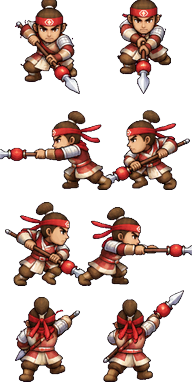
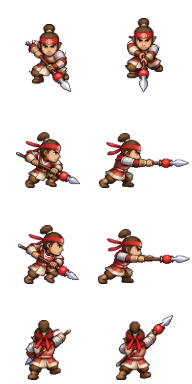
Swordsmen and spearmen attack with their heads and weapons intact
Both troop attack sheets were cropped so each figure filled its 96px cell,
cutting off heads, raised blades and spear tips. Re-sliced from the
magenta raws by connected components at one scale per sheet. Allies now
size attack sheets by the sheet median only, so the crouched slash frame
no longer jumps 20% larger than the windup.

diff --git a/src/entities/Ally.ts b/src/entities/Ally.ts
@@ -81,7 +81,7 @@ export class Ally {
     const hop=this.moving&&now>=this.attackUntil?Math.abs(Math.sin(Math.PI*this.walked/14))*2:0;
     // 出手动作：沿朝向前冲后收回（远程为后坐），并带轻微伸缩；保持同一角色素材，不冒充独立攻击帧。
     const strike=now<this.attackUntil?Math.sin(progress*Math.PI):0,lunge=(LUNGE[this.kind]??0)*strike,horizontal=this.facingX!==0;
-    const tex=visualTextureKey(this.scene,texture),corr=texture===sheet?1:figureCorrection(this.scene,visualTextureKey(this.scene,sheet),tex,frame);
+    const tex=visualTextureKey(this.scene,texture),corr=texture===sheet?1:figureCorrection(this.scene,visualTextureKey(this.scene,sheet),tex,frame,!(attack&&!action));
     v.sprite.setVisible(this.active).setTexture(tex, frame).setScale(corr*scale*(1+(horizontal?.07:-.03)*Math.abs(strike)*(lunge?1:0)),corr*scale*(1+(horizontal?-.03:.06)*Math.abs(strike)*(lunge?1:0))).setTint(now < this.hurtUntil ? 0xff9999 : this.def.tint).setOrigin(.5-this.facingX*lunge/(96*scale), ground - this.radius * .72 / (frameHeight * scale)-this.facingY*lunge/(frameHeight*scale)+hop/(frameHeight*scale)).setDepth(actorDepth(this.y + this.radius * .72));
     // Same-character procedural follow-through where independent attack art is still absent.
     const follow=now<this.attackUntil?Math.sin(progress*Math.PI):0;

diff --git a/src/systems/SpriteMetrics.ts b/src/systems/SpriteMetrics.ts
@@ -72,13 +72,14 @@ export function sheetFigureHeight(scene: Phaser.Scene, key: string): number | un
  * 相对行走表标准身高的校正倍数：偏差小于 8% 视为同一比例不处理；限制在 0.8~1.5，
  * 防止举枪、俯身等姿势本来就矮的帧被过度放大。
  */
-export function figureCorrection(scene: Phaser.Scene, referenceKey: string, key: string, frame: string | number): number {
+export function figureCorrection(scene: Phaser.Scene, referenceKey: string, key: string, frame: string | number, perFrame = true): number {
   const ref = sheetFigureHeight(scene, referenceKey), sheet = sheetFigureHeight(scene, key), own = figureHeight(scene, key, frame);
   if (!ref || !sheet || !own) return 1;
   // 不同表之间按整表中位身高统一（攻击表里下蹲、前刺等姿势的相对高低得以保留）。
   let ratio = Math.abs(ref / sheet - 1) < .08 ? 1 : ref / sheet;
   // 同一表内：只校正明显画小/画大的个别帧（偏差 >18%），保留正常的步伐起伏。
   const inSheet = sheet / own;
-  if (Math.abs(inSheet - 1) >= .18) ratio *= inSheet;
+  // perFrame=false：整表已按统一比例切好（下蹲出刀本来就矮），逐帧校正会让出手帧突然变大。
+  if (perFrame && Math.abs(inSheet - 1) >= .18) ratio *= inSheet;
   return Phaser.Math.Clamp(ratio, .8, 1.5);
 }
